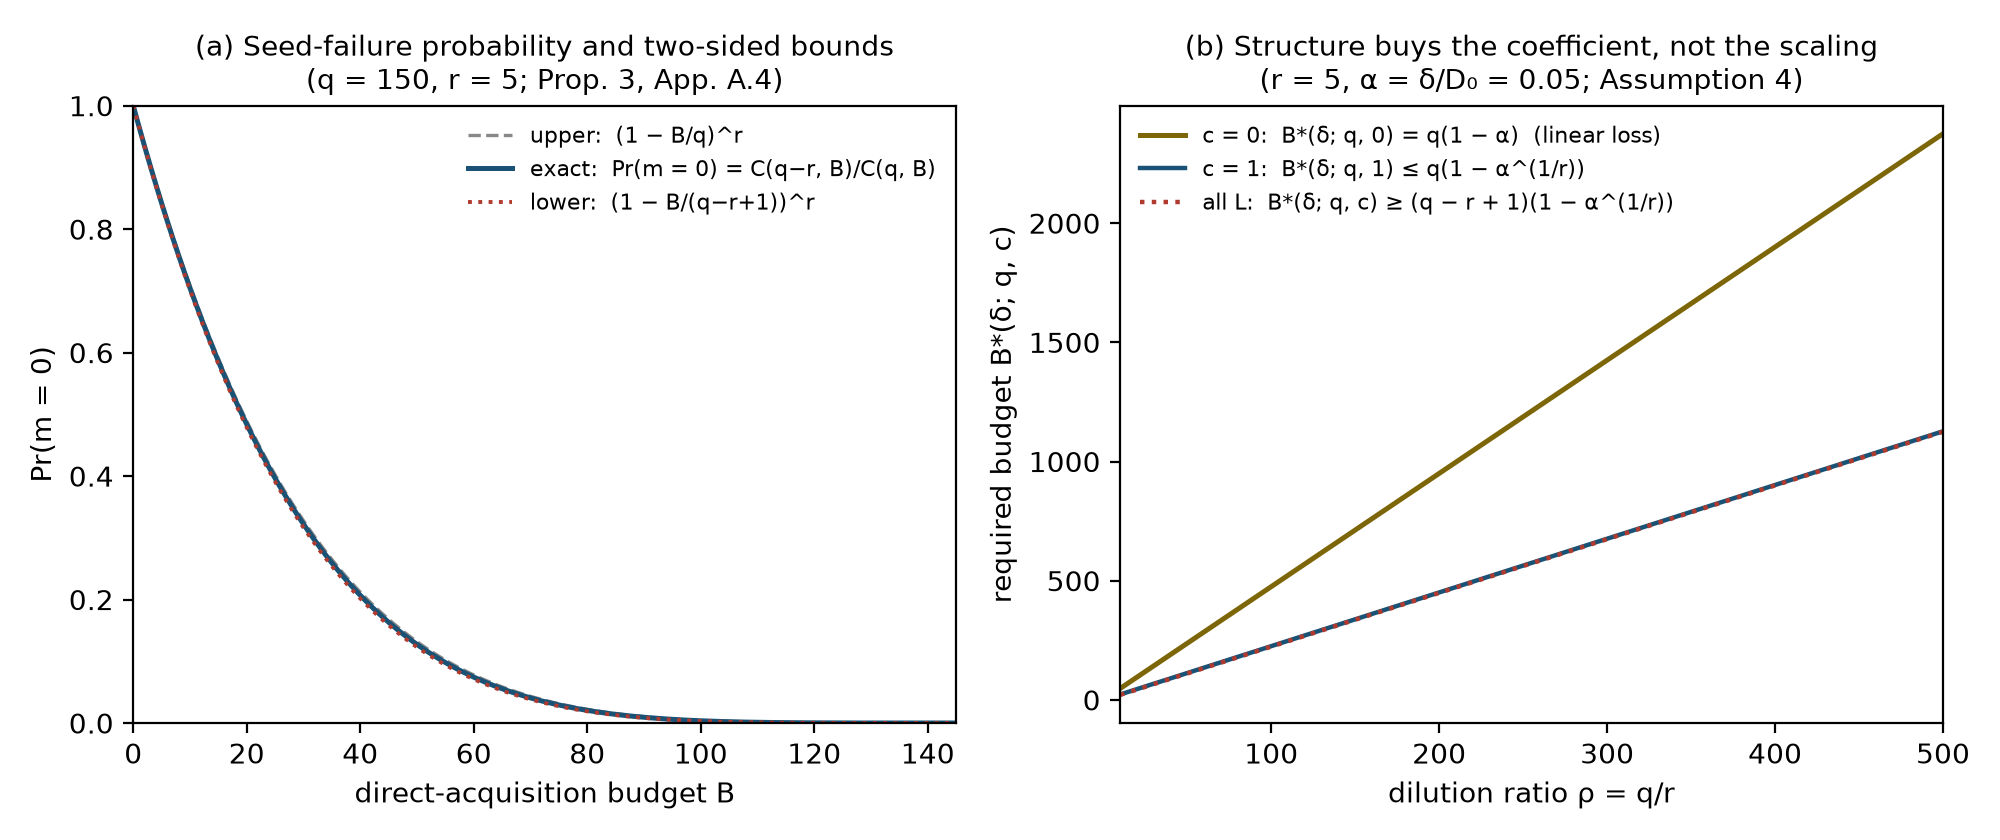
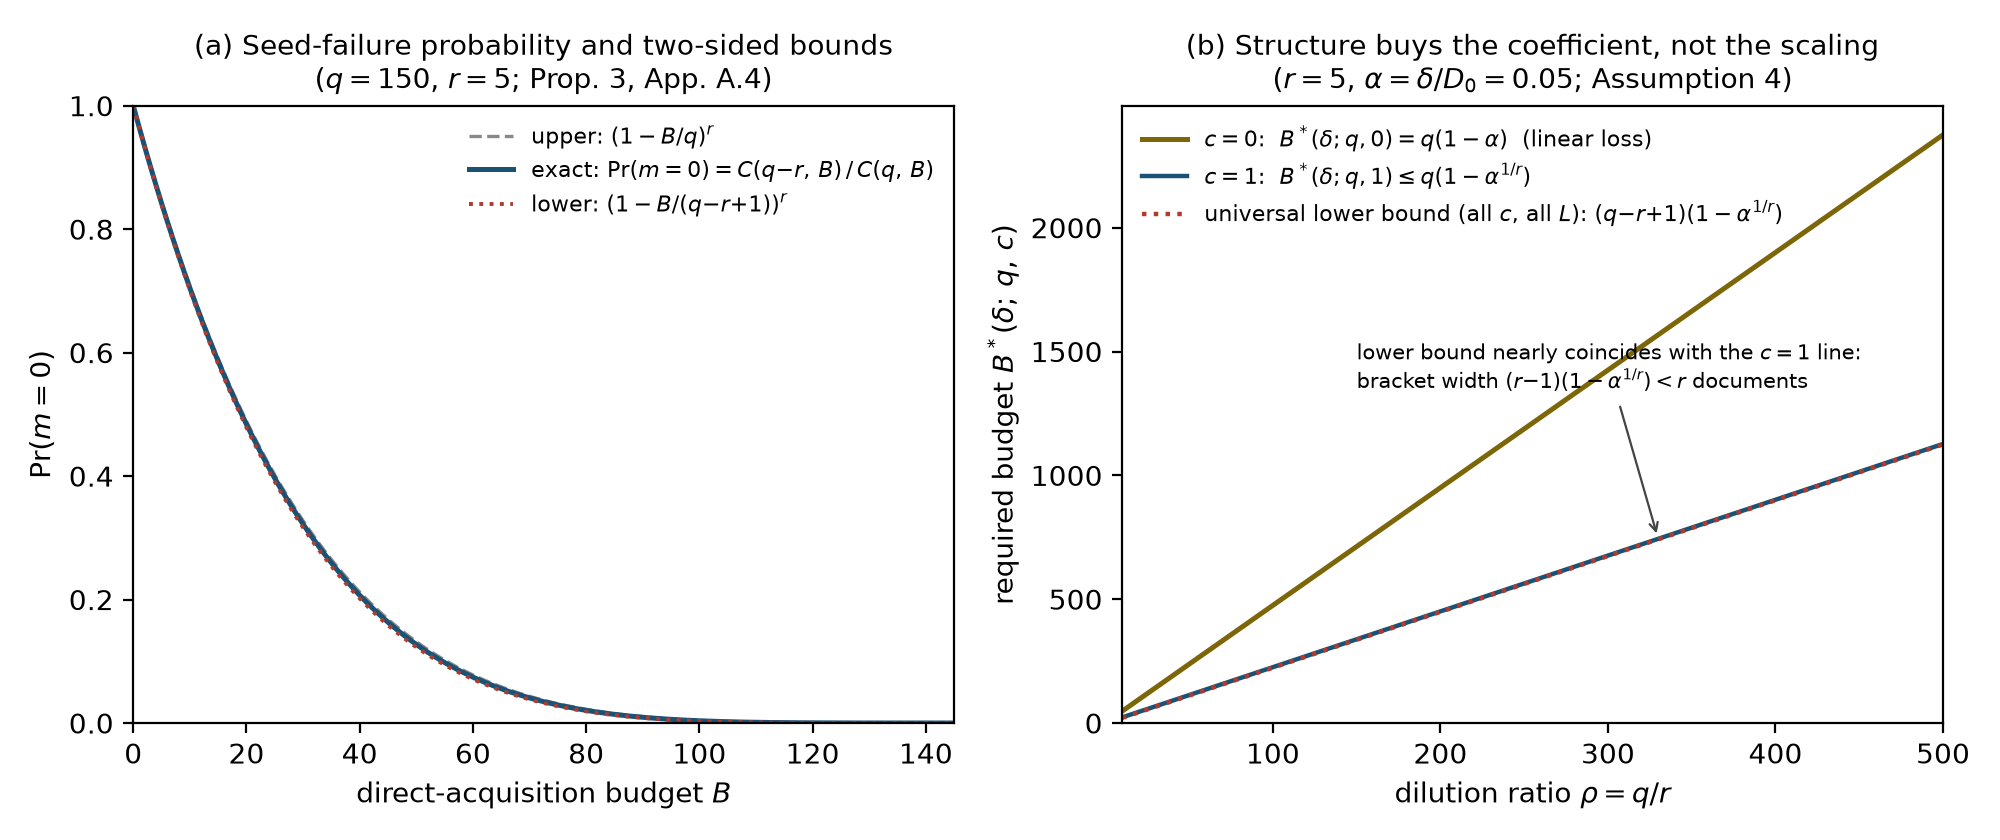
Merge second-round restoration

diff --git a/src/transparency_sim/plots.py b/src/transparency_sim/plots.py
@@ -8,6 +8,8 @@ Panel (b): the three budget lines against the dilution ratio rho = q/r:
 
 The c = 0 comparison quantity is the required budget under the linear
 recovery-distortion map (Assumption 4), B*(delta; q, 0) = q(1 - alpha).
+The lower bound nearly coincides with the c = 1 line by construction:
+the bracket width is (r - 1)(1 - alpha^(1/r)) < r documents (Prop. 3(ii)).
 """
 from __future__ import annotations
 
@@ -21,9 +23,9 @@ FIG1A_PARAMS = {"q": 150, "r": 5}
 FIG1B_PARAMS = {"r": 5, "alpha": 0.05, "rho_min": 10, "rho_max": 500}
 
 FIG1B_LABELS = {
-    "lower": "all L:  B*(δ; q, c) ≥ (q − r + 1)(1 − α^(1/r))",
-    "c1": "c = 1:  B*(δ; q, 1) ≤ q(1 − α^(1/r))",
-    "c0": "c = 0:  B*(δ; q, 0) = q(1 − α)  (linear loss)",
+    "lower": r"universal lower bound (all $c$, all $L$): $(q{-}r{+}1)(1-\alpha^{1/r})$",
+    "c1": r"$c = 1$:  $B^*(\delta;q,1) \leq q(1-\alpha^{1/r})$",
+    "c0": r"$c = 0$:  $B^*(\delta;q,0) = q(1-\alpha)$  (linear loss)",
 }
 
 
@@ -37,7 +39,7 @@ def fig1a_curves(q: int, r: int) -> dict[str, np.ndarray]:
     }
 
 
-def fig1b_lines(rhos: np.ndarray, r: int, alpha: float) -> dict[str, np.ndarray]:
+def fig1b_lines(rhos, r: int, alpha: float) -> dict[str, np.ndarray]:
     qs = r * np.asarray(rhos, dtype=float)
     return {
         "rho": np.asarray(rhos, dtype=float),
@@ -59,15 +61,15 @@ def make_fig1(out_png: Path, out_pdf: Path) -> None:
     a = fig1a_curves(q, r)
     ax = axes[0]
     ax.plot(a["B"], a["upper"], "--", lw=1.2, color="#888888",
-            label="upper:  (1 − B/q)^r")
+            label=r"upper: $(1 - B/q)^{r}$")
     ax.plot(a["B"], a["exact"], "-", lw=1.8, color="#1a5276",
-            label="exact:  Pr(m = 0) = C(q−r, B)/C(q, B)")
+            label=r"exact: $\Pr(m{=}0) = C(q{-}r,\,B)\,/\,C(q,\,B)$")
     ax.plot(a["B"], a["lower"], ":", lw=1.4, color="#b03a2e",
-            label="lower:  (1 − B/(q−r+1))^r")
-    ax.set_xlabel("direct-acquisition budget B")
-    ax.set_ylabel("Pr(m = 0)")
-    ax.set_title(f"(a) Seed-failure probability and two-sided bounds\n"
-                 f"(q = {q}, r = {r}; Prop. 3, App. A.4)", fontsize=10)
+            label=r"lower: $(1 - B/(q{-}r{+}1))^{r}$")
+    ax.set_xlabel(r"direct-acquisition budget $B$")
+    ax.set_ylabel(r"$\Pr(m = 0)$")
+    ax.set_title("(a) Seed-failure probability and two-sided bounds\n"
+                 + rf"($q = {q}$, $r = {r}$; Prop. 3, App. A.4)", fontsize=10)
     ax.legend(fontsize=8, frameon=False)
     ax.set_xlim(0, q - r)
     ax.set_ylim(0, 1)
@@ -81,12 +83,19 @@ def make_fig1(out_png: Path, out_pdf: Path) -> None:
     ax.fill_between(b["rho"], b["lower"], b["c1"], color="#1a5276", alpha=0.25, lw=0)
     ax.plot(b["rho"], b["c1"], "-", lw=1.6, color="#1a5276", label=FIG1B_LABELS["c1"])
     ax.plot(b["rho"], b["lower"], ":", lw=1.6, color="#b03a2e", label=FIG1B_LABELS["lower"])
-    ax.set_xlabel("dilution ratio ρ = q/r")
-    ax.set_ylabel("required budget B*(δ; q, c)")
-    ax.set_title(f"(b) Structure buys the coefficient, not the scaling\n"
-                 f"(r = {r}, α = δ/D₀ = {alpha}; Assumption 4)", fontsize=10)
+    ax.annotate("lower bound nearly coincides with the $c = 1$ line:\n"
+                r"bracket width $(r{-}1)(1-\alpha^{1/r}) < r$ documents",
+                xy=(330, float(fig1b_lines([330], r, alpha)["c1"][0])),
+                xytext=(150, 1350), fontsize=7.5,
+                arrowprops=dict(arrowstyle="->", lw=0.8, color="#444444"))
+    ax.set_xlabel(r"dilution ratio $\rho = q/r$")
+    ax.set_ylabel(r"required budget $B^*(\delta;\,q,\,c)$")
+    ax.set_title("(b) Structure buys the coefficient, not the scaling\n"
+                 + rf"($r = {r}$, $\alpha = \delta/D_0 = {alpha}$; Assumption 4)",
+                 fontsize=10)
     ax.legend(fontsize=8, frameon=False, loc="upper left")
     ax.set_xlim(FIG1B_PARAMS["rho_min"], FIG1B_PARAMS["rho_max"])
+    ax.set_ylim(bottom=0)
 
     fig.tight_layout()
     out_png.parent.mkdir(parents=True, exist_ok=True)

diff --git a/tests/test_a0.py b/tests/test_a0.py
@@ -62,3 +62,38 @@ def test_no_banned_phrases_in_code_or_docs():
         text = path.read_text(encoding="utf-8").lower()
         for phrase in banned:
             assert phrase.lower() not in text, f"{phrase!r} found in {path}"
+
+
+def test_graph_averaged_d1_matches_closed_form_by_full_enumeration():
+    # E over ALL reference graphs (weights c^e (1-c)^(r(r-1)-e)) of the
+    # fixed-graph A0 value at d = 1 equals the closed form of eq. (3).
+    # Single fixed graphs need not match; only the graph average does.
+    from itertools import product
+    r, q, B = 3, 12, 4
+    cores = ("DOC_0001", "DOC_0002", "DOC_0003")
+    pairs = [(a, b) for a in cores for b in cores if a != b]  # 6 ordered pairs
+    for c in (0.3, 0.7):
+        avg = 0.0
+        for mask in product((0, 1), repeat=len(pairs)):
+            w = 1.0
+            adj = {x: set() for x in cores}
+            for bit, (a, b) in zip(mask, pairs):
+                if bit:
+                    adj[a].add(b)
+                    w *= c
+                else:
+                    w *= 1.0 - c
+            avg += w * expected_recovery(adj, cores, q=q, B=B, depth=1)
+        assert avg == pytest.approx(theory.ef_one_hop(q, r, B, c), abs=1e-12)
+
+
+def test_single_fixed_graph_need_not_match_closed_form():
+    # The empty graph is a positive-probability realization at c = 0.5, but
+    # its conditional value (= E[m] = Br/q) differs from the graph-averaged
+    # closed form. This documents the distinction A0 must respect.
+    r, q, B, c = 3, 12, 4, 0.5
+    cores = ("DOC_0001", "DOC_0002", "DOC_0003")
+    empty = {x: set() for x in cores}
+    fixed = 1 * expected_recovery(empty, cores, q=q, B=B, depth=1)
+    assert fixed == pytest.approx(B * r / q)
+    assert abs(fixed - theory.ef_one_hop(q, r, B, c)) > 0.1

diff --git a/src/transparency_sim/theory.py b/src/transparency_sim/theory.py
@@ -73,3 +73,30 @@ def budget_c0_linear(q: int, alpha: float) -> float:
 def _check_alpha(alpha: float) -> None:
     if not (0.0 < alpha < 1.0):
         raise ValueError(f"need 0 < alpha < 1, got alpha={alpha}")
+
+
+def ef_one_hop(q: int, r: int, B: int, c: float) -> float:
+    """Graph-averaged expected recovery E[F_1] of the batch-then-track
+    baseline at depth 1 -- the closed form of draft eq. (3):
+
+        E[F_1] = sum_k Pr(m = k) * [ k + (r - k)(1 - (1 - c)^k) ].
+
+    This is an expectation over BOTH the hypergeometric seed draw AND the
+    random reference graph (each ordered core pair linked iid w.p. c).
+    It is therefore NOT comparable to A0 on a single fixed corpus, which
+    computes the conditional expectation given the realized graph.
+    Agreement holds after averaging over graph generation, and exactly at
+    c = 0 and c = 1 where the graph is degenerate.
+    """
+    _check_qrB(q, r, B)
+    if not (0.0 <= c <= 1.0):
+        raise ValueError(f"need 0 <= c <= 1, got c={c}")
+    denom = comb(q, B)
+    total = 0.0
+    for k in range(0, min(r, B) + 1):
+        rest = B - k
+        if rest < 0 or rest > q - r:
+            continue
+        p = comb(r, k) * comb(q - r, rest) / denom
+        total += p * (k + (r - k) * (1.0 - (1.0 - c) ** k))
+    return total

diff --git a/tests/test_theory.py b/tests/test_theory.py
@@ -37,7 +37,7 @@ def test_fig1b_c0_line_is_q_times_one_minus_alpha():
         q = r * rho
         assert val == pytest.approx(q * (1 - alpha))
     # the legend advertises the same identity and no banned comparison quantity
-    assert "q(1 − α)" in FIG1B_LABELS["c0"]
+    assert r"q(1-\alpha)" in FIG1B_LABELS["c0"]
     banned = ["full " + "recovery", "stopping " + "time", "r/(r+1)", "r(q+1)/(r+1)"]
     for label in FIG1B_LABELS.values():
         for phrase in banned:

diff --git a/VERIFICATION.md b/VERIFICATION.md
@@ -1,0 +1,84 @@
+# VERIFICATION v2 — 第2次修正の復元マージ後の状態
+
+Codex 実装(環境 API・scoring・Blind-ID・dryrun・テスト26件)と第2次修正(ef_one_hop・全グラフ列挙テスト・図v2・diff提案v2)を統合した状態の検証記録。
+
+## ファイル一覧
+```
+./.gitignore
+./README.md
+./conftest.py
+./manuscript_diff_recommendations.md
+./requirements.txt
+./scripts/regenerate_fig1.py
+./scripts/run_a0_smoke.py
+./scripts/run_blind_id_dryrun.py
+./src/transparency_sim/__init__.py
+./src/transparency_sim/a0.py
+./src/transparency_sim/blind_id.py
+./src/transparency_sim/corpus.py
+./src/transparency_sim/environment.py
+./src/transparency_sim/generator.py
+./src/transparency_sim/plots.py
+./src/transparency_sim/scoring.py
+./src/transparency_sim/theory.py
+./tests/test_a0.py
+./tests/test_blind_id.py
+./tests/test_environment.py
+./tests/test_generator.py
+./tests/test_scoring.py
+./tests/test_theory.py
+```
+
+## pytest(51件)
+```
+============================== 51 passed in 0.26s ==============================
+```
+完全ログ: outputs/logs/pytest.log
+
+## A0 理論整合(端点・閉形式照合)
+```
+c=0, d=1: A0 D = 0.800000000000  theory = 0.800000000000  |diff| = 0.00e+00
+c=0, d=inf: A0 D = 0.800000000000  theory = 0.800000000000  |diff| = 0.00e+00
+c=1, d=1: A0 D = 0.310562782005  Pr(m=0) = 0.310562782005  |diff| = 2.78e-16
+c=1, d=inf: A0 D = 0.310562782005  Pr(m=0) = 0.310562782005  |diff| = 2.78e-16
+graph-avg vs closed form c=0.3: 1.416727272727 vs 1.416727272727  |diff| = 6.66e-16
+graph-avg vs closed form c=0.7: 1.911272727273 vs 1.911272727273  |diff| = 6.66e-16
+```
+
+## Blind-ID dryrun
+```
+Blind-ID dry run (scripted sequential policy; no LLM in this round)
+corpus: q=50 r=5 c=0.5 seed=2 | observer: B=10 depth=inf kappa=0
+A0 reference on the same corpus: D_seed_1 = 0.4397  D_seed_inf = 0.3106
+
+seed  paid_fetch  resolves  recovered/r  D_hat  D_rec  match
+   0          10         4          5/5  0.0000  0.0000     OK
+   1          10         4          5/5  0.0000  0.0000     OK
+   2          10         4          5/5  0.0000  0.0000     OK
+   3          10         0          0/5  1.0000  1.0000     OK
+   4          10         4          5/5  0.0000  0.0000     OK
+   5          10         4          5/5  0.0000  0.0000     OK
+   6          10         4          5/5  0.0000  0.0000     OK
+   7          10         4          5/5  0.0000  0.0000     OK
+   8          10         4          5/5  0.0000  0.0000     OK
+   9          10         4          5/5  0.0000  0.0000     OK
+  10          10         0          0/5  1.0000  1.0000     OK
+  11          10         4          5/5  0.0000  0.0000     OK
+  12          10         4          5/5  0.0000  0.0000     OK
+  13          10         0          0/5  1.0000  1.0000     OK
+  14          10         4          5/5  0.0000  0.0000     OK
+  15          10         0          0/5  1.0000  1.0000     OK
+  16          10         0          0/5  1.0000  1.0000     OK
+  17          10         4          5/5  0.0000  0.0000     OK
+  18          10         0          0/5  1.0000  1.0000     OK
+  19          10         4          5/5  0.0000  0.0000     OK
+
+mean D_hat = 0.3000   min = 0.0000   max = 1.0000
+NullPolicy: D_hat = 1.0000
+invariants: D_hat == D_rec in all 20 runs: OK | paid_fetch == 10 in all runs: OK
+note: sequential exclusion can make mean D_hat slightly below D_seed_inf; not a bug.
+log written: outputs/logs/blind_id_dryrun.txt
+```
+
+## 実行コマンド(すべて数秒)
+pip install -r requirements.txt / pytest / python scripts/regenerate_fig1.py / python scripts/run_a0_smoke.py / python scripts/run_blind_id_dryrun.py

diff --git a/README.md b/README.md
@@ -20,7 +20,11 @@ Scope of this round (deliberately minimal):
    exactly, the achieved distortion `D_seed_d` of the batch-then-track
    restricted policy class Π^seed on one fixed corpus (subset enumeration
    over the core set; depths `d = 1` and `d = "inf"`). A0 is a calibration
-   baseline for the theory surface. It is **not** the definitional infimum
+   baseline for the theory surface. The depth-1 closed form of eq. (3) is a
+   graph-generation average; A0 on one corpus is the conditional value on
+   the realized graph, so cross-checks against eq. (3) average over graphs
+   (an exact full-graph enumeration test at r = 3 is included).
+   A0 is **not** the definitional infimum
    D* over the full adaptive class Π_θ, and it never reads document bodies.
 
 Out of scope in this round: Figure 2, any LLM arm (Blind-ID / Metadata /